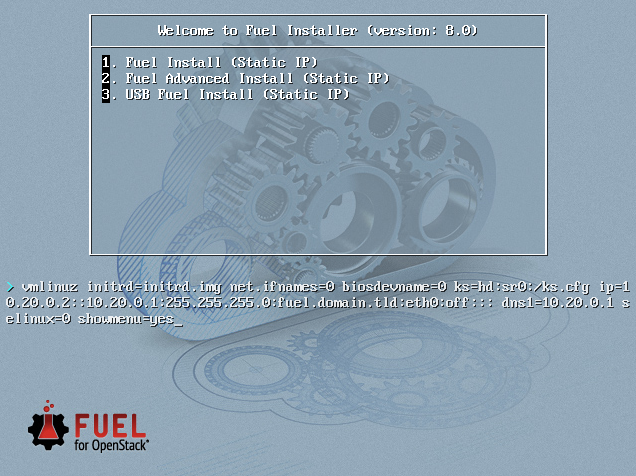
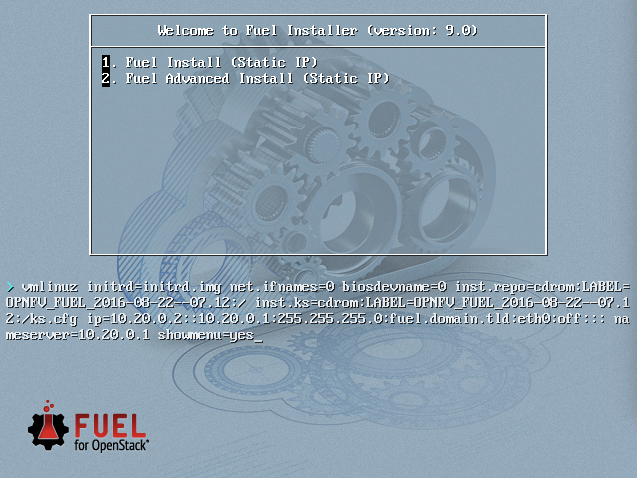
Final updates of the Installation instructions: - Images updated - Updated reference URIs

Changed region(s): [[0.0, 0.0294, 1.0, 0.7647], [0.0299, 0.8235, 0.239, 0.9706]]

diff --git a/docs/installationprocedure/installation.instruction.rst b/docs/installationprocedure/installation.instruction.rst
@@ -13,7 +13,7 @@ Abstract
 ========
 
 This document describes how to install the Colorado release of
-OPNFV when using Fuel as a deployment tool, covering  it's usage,
+OPNFV when using Fuel as a deployment tool, covering it's usage,
 limitations, dependencies and required system resources.
 
 Introduction
@@ -35,6 +35,7 @@ networking and Unix/Linux administration.
 
 Preface
 =======
+
 Before starting the installation of the Colorado release of
 OPNFV, using Fuel as a deployment tool, some planning must be
 done.
@@ -49,7 +50,8 @@ Building the ISO image
 ----------------------
 
 Alternatively, you may build the Fuel .iso from source by cloning the
-opnfv/fuel git repository.  To retrieve the repository for the Colorado release use the following command:
+opnfv/fuel git repository. To retrieve the repository for the Colorado
+release use the following command:
 
 .. code-block:: bash
 
@@ -97,7 +99,7 @@ Prior to installation, a number of deployment specific parameters must be collec
 
 #.     How many nodes and what roles you want to deploy (Controllers, Storage, Computes)
 
-#.     Monitoring options you want to deploy (Ceilometer, Syslog, erc.).
+#.     Monitoring options you want to deploy (Ceilometer, Syslog, etc.).
 
 #.     Other options not covered in the document are available in the links above
 
@@ -207,7 +209,7 @@ Install Fuel master
 
    .. figure:: img/grub-1.png
 
-#. Wait until screen Fuel setup is shown (Note: This can take up to 30 minutes).
+#. Wait until the Fuel setup screen is shown (Note: This can take up to 30 minutes).
 
 #. In the "Fuel User" section - Confirm/change the default password (See figure below)
 
@@ -274,7 +276,7 @@ Install Fuel master
 
    - Select Quit Setup and press Save and Quit.
 
-   - Installation starts, wait until the login screen is shown.
+   - The installation will now start, wait until the login screen is shown.
 
 
 Boot the Node Servers
@@ -282,12 +284,12 @@ Boot the Node Servers
 
 After the Fuel Master node has rebooted from the above steps and is at
 the login prompt, you should boot the Node Servers (Your
-Compute/Control/Storage blades (nested or real) with a PXE booting
+Compute/Control/Storage blades, nested or real) with a PXE booting
 scheme so that the FUEL Master can pick them up for control.
 
 #. Enable PXE booting
 
-   - For every controller and compute server: enable PXE Booting as the first boot device in the BIOS boot order menu and hard disk as the second boot device in the same menu.
+   - For every controller and compute server: enable PXE Booting as the first boot device in the BIOS boot order menu, and hard disk as the second boot device in the same menu.
 
 #. Reboot all the control and compute blades.
 
@@ -324,7 +326,7 @@ Install additional Plugins/Features on the FUEL node
 Create an OpenStack Environment
 -------------------------------
 
-#. Connect to Fuel WEB UI with a browser (default: https://10.20.0.2:8443) (login admin/admin)
+#. Connect to Fuel WEB UI with a browser (default: https://10.20.0.2:8443) (login: admin/admin)
 
 #. Create and name a new OpenStack environment, to be installed.
 
@@ -350,7 +352,7 @@ Create an OpenStack Environment
 
 #. Select "additional services" you wish to install.
 
-   - Check option "Install Ceilometer (OpenStack Telemetry)" and press <Next>
+   - Check option "Install Ceilometer and Aodh" and press <Next>
 
 #. Create the new environment.
 
@@ -361,7 +363,7 @@ Configure the network environment
 
 #. Open the environment you previously created.
 
-#. Open the networks tab and select the "default Node Networks group to" on the left pane (see figure below).
+#. Open the networks tab and select the "default" Node Networks group to on the left pane (see figure below).
 
    .. figure:: img/network.png
 
@@ -413,7 +415,7 @@ Configure the network environment
 
    - Set appropriate VLAN tag (default 103)
 
-#. Select the "Neutron L3 Node Networks group" on the left pane.
+#. Select the "Neutron L3" Node Networks group on the left pane.
 
    .. figure:: img/neutronl3.png
 
@@ -439,7 +441,7 @@ Configure the network environment
 
 #. Save Settings.
 
-#. Select the "Other Node Networks group" on the left pane(see figure below).
+#. Select the "Other" Node Networks group on the left pane (see figure below).
 
    .. figure:: img/other.png
 
@@ -460,7 +462,7 @@ Select Hypervisor type
 
 #. In the FUEL UI of your Environment, click the "Settings" Tab
 
-#. Select Compute on the left side pane (see figure below)
+#. Select "Compute" on the left side pane (see figure below)
 
    - Check the KVM box and press "Save settings"
 
@@ -488,7 +490,7 @@ Allocate nodes to environment and assign functional roles
 
     - Click on the <+Add Nodes> button
 
-    - Check <Controller>, <Telemetry - MongoDB>  and optionally an SDN Controller role (OpenDaylight controller/ONOS) in the Assign Roles Section.
+    - Check <Controller>, <Telemetry - MongoDB>  and optionally an SDN Controller role (OpenDaylight controller/ONOS) in the "Assign Roles" Section.
 
     - Check one node which you want to act as a Controller from the bottom half of the screen
 
@@ -518,8 +520,7 @@ Allocate nodes to environment and assign functional roles
 
     - Click <Configure Interfaces>
 
-    - Assign interfaces (bonded) for mgmt-, admin-, private-, public-
-      and storage networks
+    - Assign interfaces (bonded) for mgmt-, admin-, private-, public- and storage networks
 
     - Click <Apply>
 
@@ -529,7 +530,7 @@ Allocate nodes to environment and assign functional roles
 OPTIONAL - Set Local Mirror Repos
 ---------------------------------
 
-The following steps can be executed if you are in an environment with
+The following steps must be executed if you are in an environment with
 no connection to the Internet. The Fuel server delivers a local repo
 that can be used for installation / deployment of openstack.
 
@@ -617,7 +618,7 @@ packages needed for a successful deployment can be fetched.
 Deploy Your Environment
 -----------------------
 
-38. Deploy the environment.
+#. Deploy the environment.
 
     - In the Fuel GUI, click on the "Dashboard" Tab.
 
@@ -647,43 +648,43 @@ References
 OPNFV
 -----
 
-1) `OPNFV Home Page <http://www.opnfv.org>`_
+1) `OPNFV Home Page <http://www.opnfv.org>`_: http://www.opnfv.org
 
-2) `OPNFV documentation- and software downloads <https://www.opnfv.org/software/download>`_
+2) `OPNFV documentation- and software downloads <https://www.opnfv.org/software/download>`_: https://www.opnfv.org/software/download
 
 OpenStack
 ---------
 
-3) `OpenStack Mitaka Release artifacts <http://www.openstack.org/software/mitaka>`_
+3) `OpenStack Mitaka Release artifacts <http://www.openstack.org/software/mitaka>`_: http://www.openstack.org/software/mitaka
 
-4) `OpenStack documentation <http://docs.openstack.org>`_
+4) `OpenStack documentation <http://docs.openstack.org>`_: http://docs.openstack.org
 
 OpenDaylight
 ------------
 
-5) `OpenDaylight artifacts <http://www.opendaylight.org/software/downloads>`_
+5) `OpenDaylight artifacts <http://www.opendaylight.org/software/downloads>`_: http://www.opendaylight.org/software/downloads
 
 Fuel
 ----
-6) `The Fuel OpenStack project <https://wiki.openstack.org/wiki/Fuel>`_
+6) `The Fuel OpenStack project <https://wiki.openstack.org/wiki/Fuel>`_: https://wiki.openstack.org/wiki/Fuel
 
-7) `Fuel documentation overview <http://docs.openstack.org/developer/fuel-docs>`_
+7) `Fuel documentation overview <http://docs.openstack.org/developer/fuel-docs>`_: http://docs.openstack.org/developer/fuel-docs
 
-8) `Fuel Installation Guide <http://docs.openstack.org/developer/fuel-docs/userdocs/fuel-install-guide.html>`_
+8) `Fuel Installation Guide <http://docs.openstack.org/developer/fuel-docs/userdocs/fuel-install-guide.html>`_: http://docs.openstack.org/developer/fuel-docs/userdocs/fuel-install-guide.html
 
-9) `Fuel User Guide <http://docs.openstack.org/developer/fuel-docs/userdocs/fuel-user-guide.html>`_
+9) `Fuel User Guide <http://docs.openstack.org/developer/fuel-docs/userdocs/fuel-user-guide.html>`_: http://docs.openstack.org/developer/fuel-docs/userdocs/fuel-user-guide.html
 
-10) `Fuel Developer Guide <http://docs.openstack.org/developer/fuel-docs/devdocs/develop.html>`_
+10) `Fuel Developer Guide <http://docs.openstack.org/developer/fuel-docs/devdocs/develop.html>`_: http://docs.openstack.org/developer/fuel-docs/devdocs/develop.html
 
-11) `Fuel Plugin Developers Guide <http://docs.openstack.org/developer/fuel-docs/plugindocs/fuel-plugin-sdk-guide.html>`_
+11) `Fuel Plugin Developers Guide <http://docs.openstack.org/developer/fuel-docs/plugindocs/fuel-plugin-sdk-guide.html>`_: http://docs.openstack.org/developer/fuel-docs/plugindocs/fuel-plugin-sdk-guide.html
 
-12) `Fuel OpenStack Hardware Compatibility List <https://www.mirantis.com/products/openstack-drivers-and-plugins/hardware-compatibility-list>`_
+12) `Fuel OpenStack Hardware Compatibility List <https://www.mirantis.com/products/openstack-drivers-and-plugins/hardware-compatibility-list>`_: https://www.mirantis.com/products/openstack-drivers-and-plugins/hardware-compatibility-list
 
 Fuel in OPNFV
 -------------
 
-13) `OPNFV Installation instruction for the Colorado release of OPNFV when using Fuel as a deployment tool <http://artifacts.opnfv.org/fuel/colorado/docs/installation-instruction.html>`_
+13) `OPNFV Installation instruction for the Colorado release of OPNFV when using Fuel as a deployment tool <http://artifacts.opnfv.org/fuel/colorado/docs/installationprocedure/index.html>`_: http://artifacts.opnfv.org/fuel/colorado/docs/installationprocedure/index.html
 
-14) `OPNFV Build instruction for the Colorado release of OPNFV when using Fuel as a deployment tool <http://artifacts.opnfv.org/fuel/colorado/docs/build-instruction.html>`_
+14) `OPNFV Build instruction for the Colorado release of OPNFV when using Fuel as a deployment tool <http://artifacts.opnfv.org/fuel/colorado/docs/buildprocedure/index.html>`_: http://artifacts.opnfv.org/fuel/colorado/docs/buildprocedure/index.html
 
-15) `OPNFV Release Note for the Colorado release of OPNFV when using Fuel as a deployment tool <http://artifacts.opnfv.org/fuel/colorado/docs/release-notes.html>`_
+15) `OPNFV Release Note for the Colorado release of OPNFV when using Fuel as a deployment tool <http://artifacts.opnfv.org/fuel/colorado/docs/releasenotes/index.html>`_: http://artifacts.opnfv.org/fuel/colorado/docs/releasenotes/index.html
